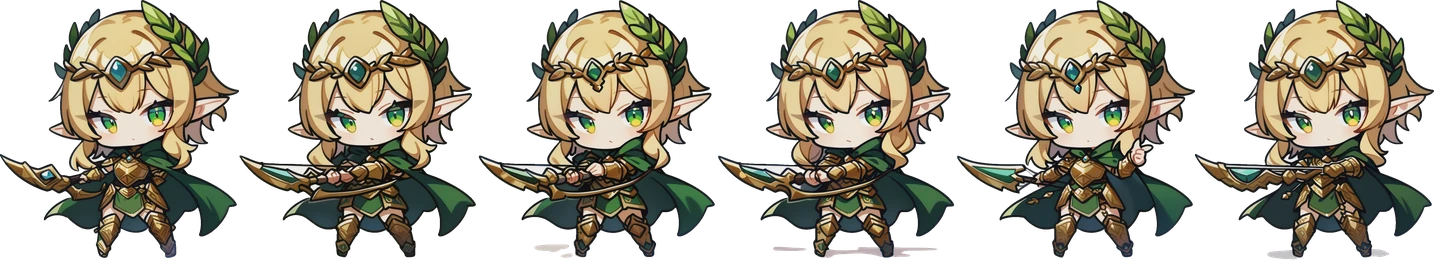
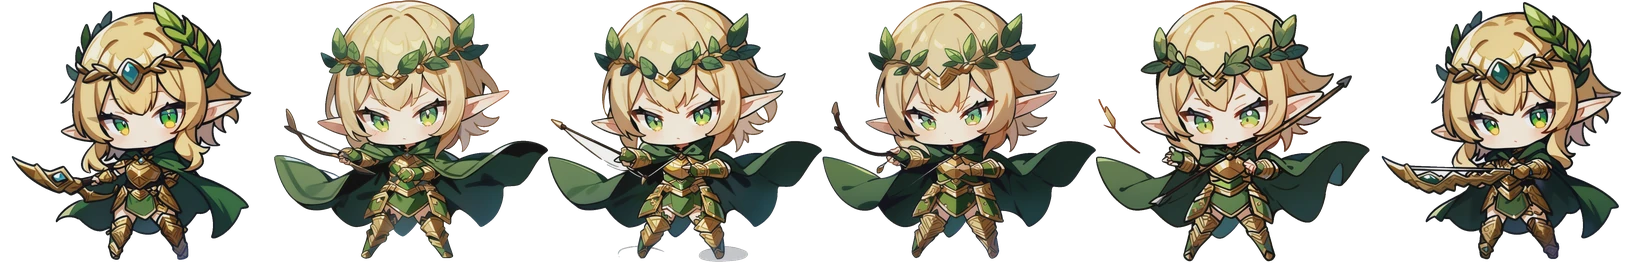
塔防:英雄攻擊影格重做(出手中的格從攻擊圖出發、強度 0.9,弓真的舉起拉滿放箭、劍舉起劈下、法杖噴法術、匕首撲刺);播影格時不再旋轉壓扁;每格時間依職業攻擊間隔
使用者:「弓永遠往下 一點動態感都沒有」。

diff --git a/src/views/aegis/td/scene.ts b/src/views/aegis/td/scene.ts
@@ -1133,7 +1133,7 @@ export class TdScene {
     const fi = clip ? clipFrame(clip, (at / this.cfg.tps) * 1000) : -1
     // 影格負責「畫面上的動作」(拉弓、法術、揮砍的速度線),程式姿勢負責大幅度的傾身 / 衝刺,兩個疊在一起
     const ps = this.pose(tw.cls, at, dir)
-    if (fi >= 0) ps.attack = true
+    if (fi >= 0) { ps.attack = true; ps.rot = 0; ps.sx = 1; ps.sy = 1 }   // 影格自己有動作,不再旋轉 / 壓扁(會看起來像圖在扭),只留衝刺位移
     const img = ps.attack ? (tw.job && a.jobAttack) || a.attack : (tw.job && a.jobIdle) || a.idle
     const h = 84
     const w = (img.width / img.height) * h
